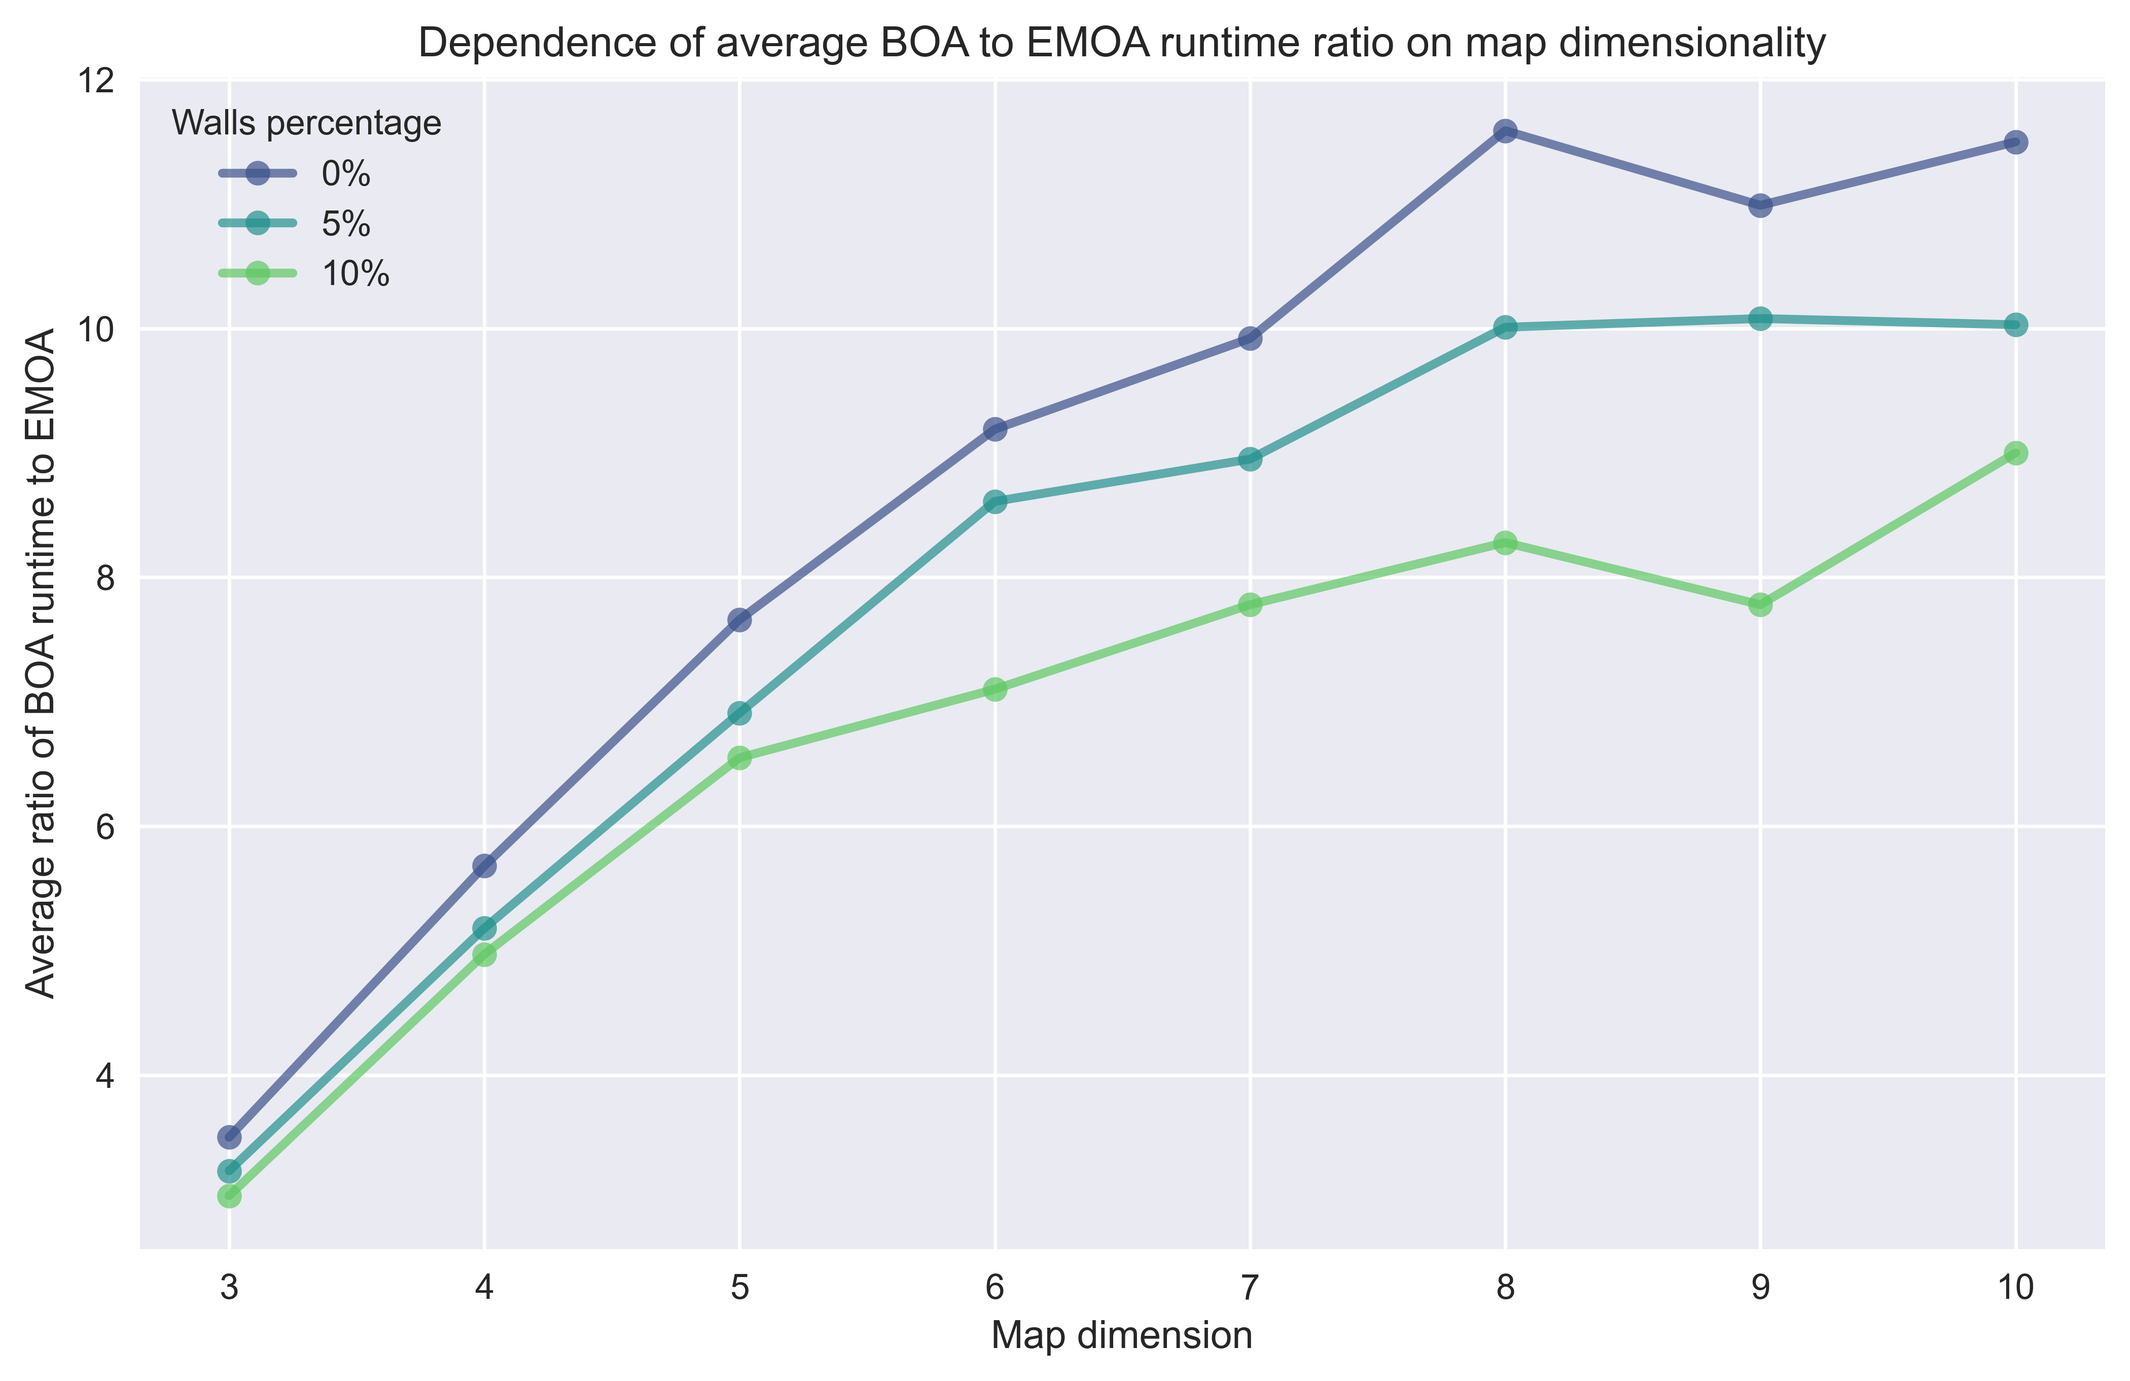
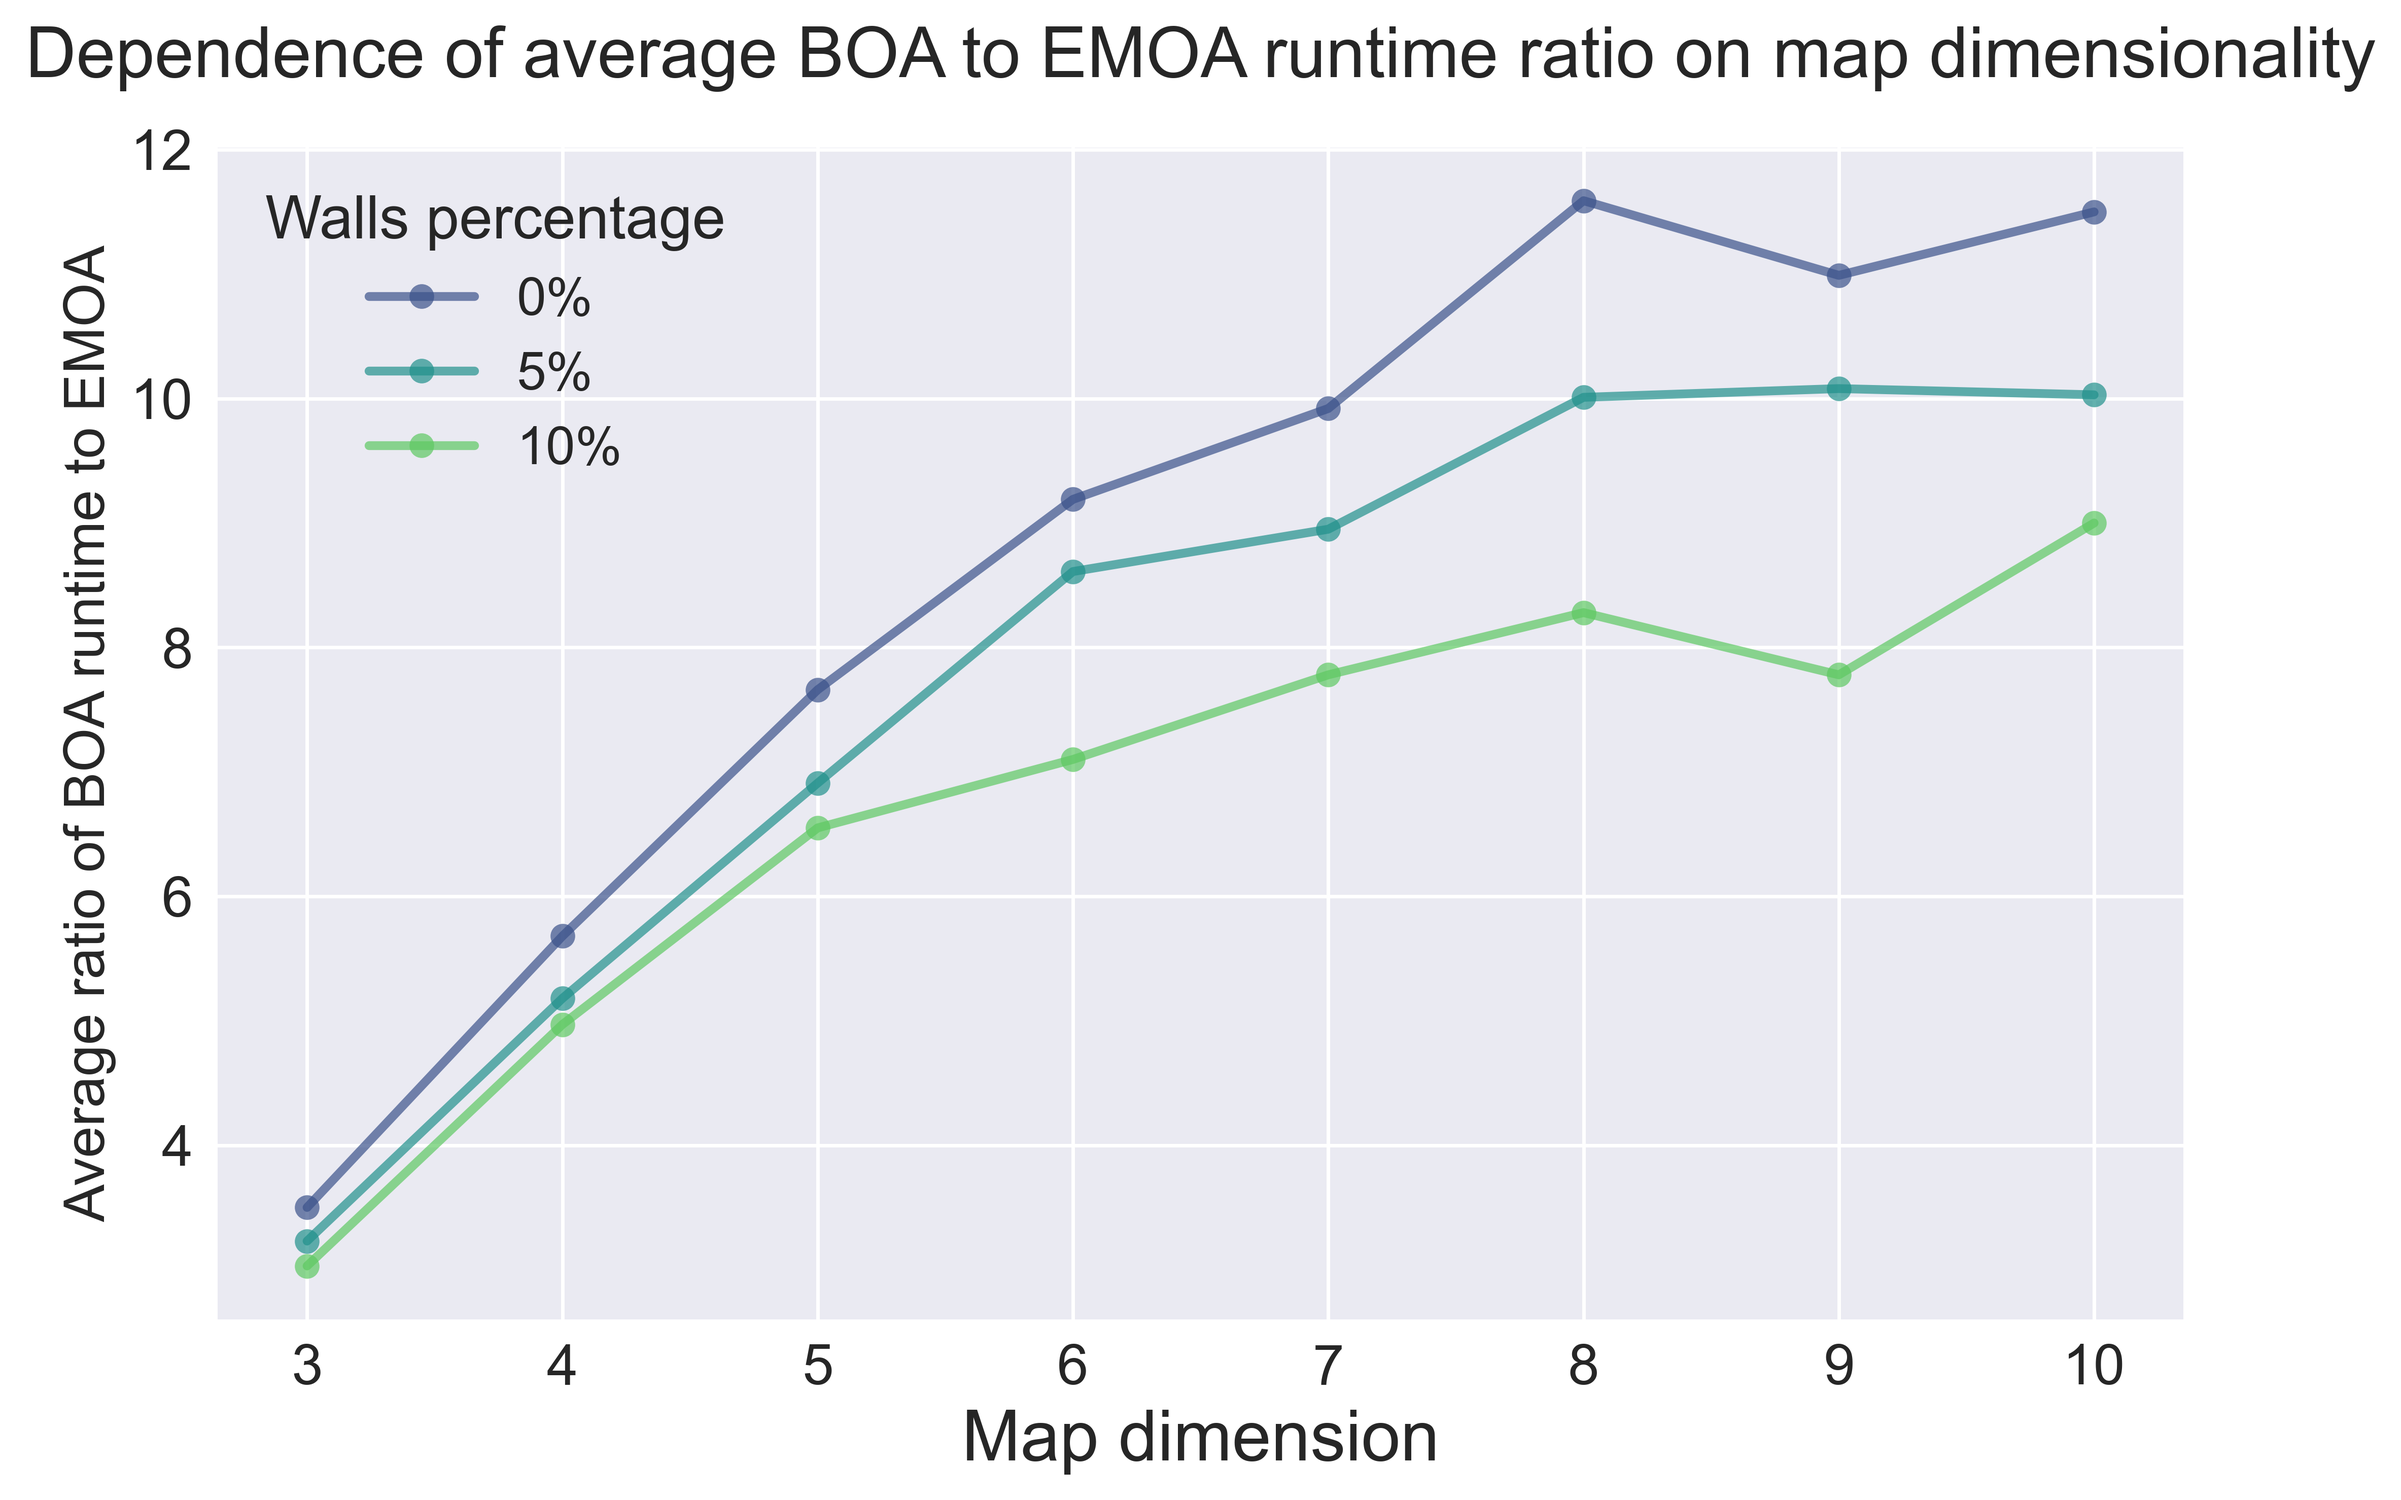
Upd on data_out

diff --git a/python/plots_generator.py b/python/plots_generator.py
@@ -19,15 +19,42 @@ def ny_table_generator(input_file: str = "../data_out/NY_results/NY_test_results
         comparison_data.append({
             'Algorithm': "EMOA*" if algorithm == "emoa" else "ext-BOA*-lex",
             'Successful Runs': str(len(successful_runs)) + "/" + str(num_tests),
-            'Avg Search Time': successful_runs['search_time'].mean(),
-            'Median Search Time': successful_runs['search_time'].median(),
-            'Max Search Time': successful_runs['search_time'].max()
+            'Avg Search Time': round(successful_runs['search_time'].mean(), 2),
+            'Median Search Time': round(successful_runs['search_time'].median(), 2),
+            'Max Search Time': round(successful_runs['search_time'].max(), 2)
         })
 
     comparison_table = pd.DataFrame(comparison_data)
     comparison_table.to_csv(output_file, index=False)
 
     return comparison_table
+
+
+def ny_table_generator_2(input_file, output_file):
+    test_results = pd.read_csv(input_file)
+
+    filtered_results = test_results[test_results['timeout'] == 1]
+    valid_tests = filtered_results.groupby('test_number').filter(lambda x: set(x['algorithm']) == {'emoa', 'boa'})
+    ratios = []
+
+    for test_number in valid_tests['test_number'].unique():
+        emoa_solutions = valid_tests[(valid_tests['test_number'] == test_number) & (valid_tests['algorithm'] == 'emoa')]['num_solutions'].values[0]
+        boa_solutions = valid_tests[(valid_tests['test_number'] == test_number) & (valid_tests['algorithm'] == 'boa')]['num_solutions'].values[0]
+
+        ratio = emoa_solutions / boa_solutions
+        ratios.append({'test_number': test_number, 'solution_ratio': ratio})
+
+    ratios_df = pd.DataFrame(ratios)
+
+    statistics = {
+        'min': round(ratios_df['solution_ratio'].min(), 2),
+        'average': round(ratios_df['solution_ratio'].mean(), 2),
+        'median': round(ratios_df['solution_ratio'].median(), 2),
+        'max': round(ratios_df['solution_ratio'].max(), 2)
+    }
+
+    stats_df = pd.DataFrame(statistics, index=[0])
+    stats_df.to_csv(output_file, index=False)
 
 
 def plot_search_time_vs_solutions(min_dim: int = 3, max_dim: int = 10, walls_percentage_list: tuple = (0, 5, 10)):
@@ -74,14 +101,15 @@ def plot_search_time_vs_solutions(min_dim: int = 3, max_dim: int = 10, walls_per
                                c=colors[(algorithm, walls)], marker=markers[walls],
                                label=f"{algorithm}, {walls}% walls", alpha=0.7, s=15)
 
-        ax.set_title(f'Dimensions: {num_dims}', fontsize=12)
-        ax.set_xlabel('Number of Solutions', fontsize=10)
-        ax.set_ylabel('Search Time', fontsize=10)
+        ax.set_title(f'Dimensions: {num_dims}', fontsize=24)
+        ax.set_xlabel('Number of Solutions', fontsize=24)
+        ax.set_ylabel('Search Time', fontsize=24)
         ax.set_yscale('log')
 
         ax.set_xlim(0, 5000)
         ax.set_xticks([0, 1000, 2000, 3000, 4000, 5000])
         ax.set_xticklabels(['0', '1000', '2000', '3000', '4000', '5000'])
+        ax.tick_params(axis='both', labelsize=14)
 
         ax.grid(True, which="both", ls="-", alpha=0.2)
 
@@ -91,14 +119,14 @@ def plot_search_time_vs_solutions(min_dim: int = 3, max_dim: int = 10, walls_per
     legend_elements = [plt.Line2D([0], [0], marker=markers[walls], color=colors[(alg, walls)],
                                   label=f'{alg}, {walls}% walls', markersize=10, linestyle='None')
                        for alg in ['emoa', 'boa'] for walls in [0, 5, 10]]
-    legend_ax.legend(handles=legend_elements, loc='center', title='Algorithm and Wall Percentage')
+    legend_ax.legend(handles=legend_elements, loc='center', title='Algorithm and Wall Percentage', fontsize=18, title_fontsize=20)
 
     plt.tight_layout()
-    plt.subplots_adjust(left=0.05, right=0.95, bottom=0.15, top=0.85, hspace=0.5, wspace=0.35)
-    plt.suptitle('Search Time vs Number of Solutions for Different Dimensions', fontsize=16, y=0.95)
+    plt.subplots_adjust(left=0.05, right=0.95, bottom=0.15, top=0.85, hspace=0.4, wspace=0.38)
+    plt.suptitle('Search Time vs Number of Solutions for Different Dimensions', fontsize=40, y=0.95)
 
     # plt.show()
-    plt.savefig('../data_out/plots_and_tables/st_num_sol_all_dims.png', dpi=500, bbox_inches='tight')
+    plt.savefig('../data_out/plots_and_tables/st_num_sol_all_dims.png', dpi=400, bbox_inches='tight')
 
 
 def simple_map_table_generator(min_dim: int = 3, max_dim: int = 10, walls_percentage_list: tuple = (0, 5, 10),
@@ -154,19 +182,26 @@ def simple_map_plot_mean_ratio(input_file: str, output_file: str):
             linewidth=2.5,
             alpha=0.7)
 
-    ax.set_xlabel('Map dimension')
-    ax.set_ylabel('Average ratio of BOA runtime to EMOA')
-    ax.set_title('Dependence of average BOA to EMOA runtime ratio on map dimensionality')
-    ax.legend(title='Walls percentage')
+    ax.set_xlabel('Map dimension', fontsize=20)
+    ax.set_ylabel('Average ratio of BOA runtime to EMOA', fontsize=16)
+    ax.set_title('Dependence of average BOA to EMOA runtime ratio on map dimensionality', fontsize=20, pad=20)
+    ax.legend(title='Walls percentage', fontsize=15, title_fontsize='17')
+    ax.tick_params(axis='both', labelsize=16)
 
     # plt.show()
     plt.savefig(output_file, dpi=500, bbox_inches='tight')
 
 
+
 if __name__ == "__main__":
     # NY successful runs table
-    # comparison_table = ny_table_generator(input_file="../data_out/NY_results/NY_test_results_final.csv",
-    #                                       output_file="../data_out/plots_and_tables/NY_successful_runs_table.csv")
+    comparison_table = ny_table_generator(input_file="../data_out/NY_results/NY_test_results_final.csv",
+                                          output_file="../data_out/plots_and_tables/NY_successful_runs_table.csv")
+
+    # NY table 2
+    # ny_table_generator_2(input_file="../data_out/NY_results/NY_test_results_final.csv",
+    #                      output_file="../data_out/plots_and_tables/NY_table_2.csv")
+
 
     # Plot for simple maps of different dims and walls percentages
     # plot_search_time_vs_solutions(min_dim=3, max_dim=10, walls_percentage_list=(0, 5, 10))
@@ -176,5 +211,7 @@ if __name__ == "__main__":
     #                            output_file = "../data_out/plots_and_tables/simple_map_stats_table.csv")
 
     # PLot with some statistics for simple maps of different dims and walls percentages
-    simple_map_plot_mean_ratio(input_file = "../data_out/plots_and_tables/simple_map_stats_table.csv",
-                               output_file = "../data_out/plots_and_tables/simple_map_mean_ratio_plot.png")
+    # simple_map_plot_mean_ratio(input_file = "../data_out/plots_and_tables/simple_map_stats_table.csv",
+    #                            output_file = "../data_out/plots_and_tables/simple_map_mean_ratio_plot.png")
+
+
